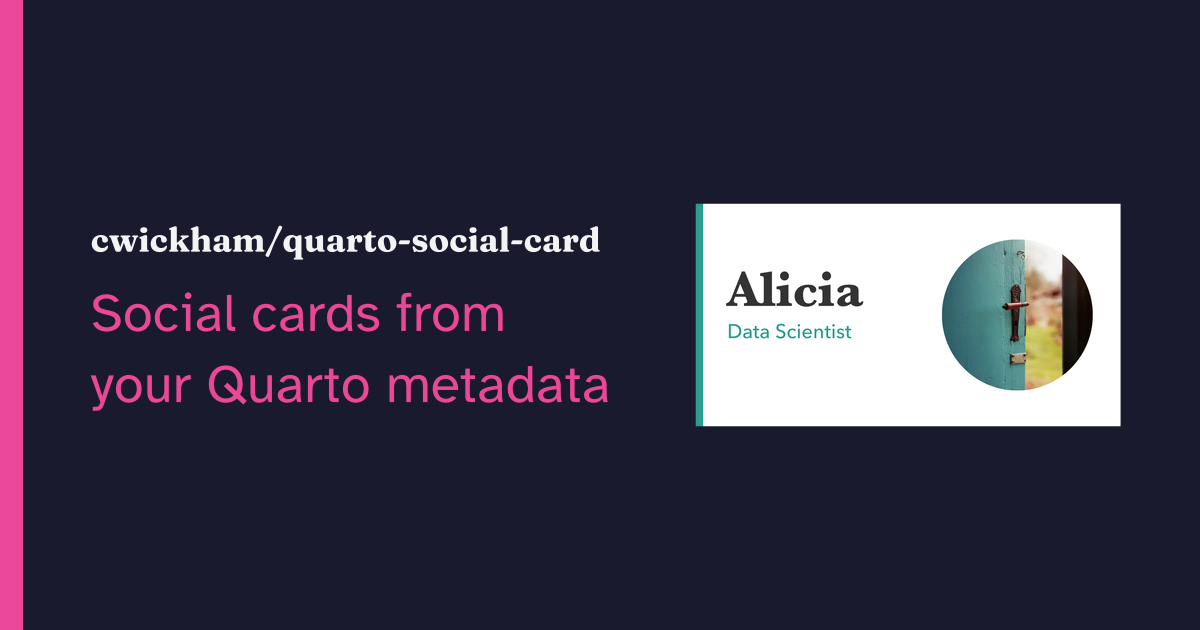
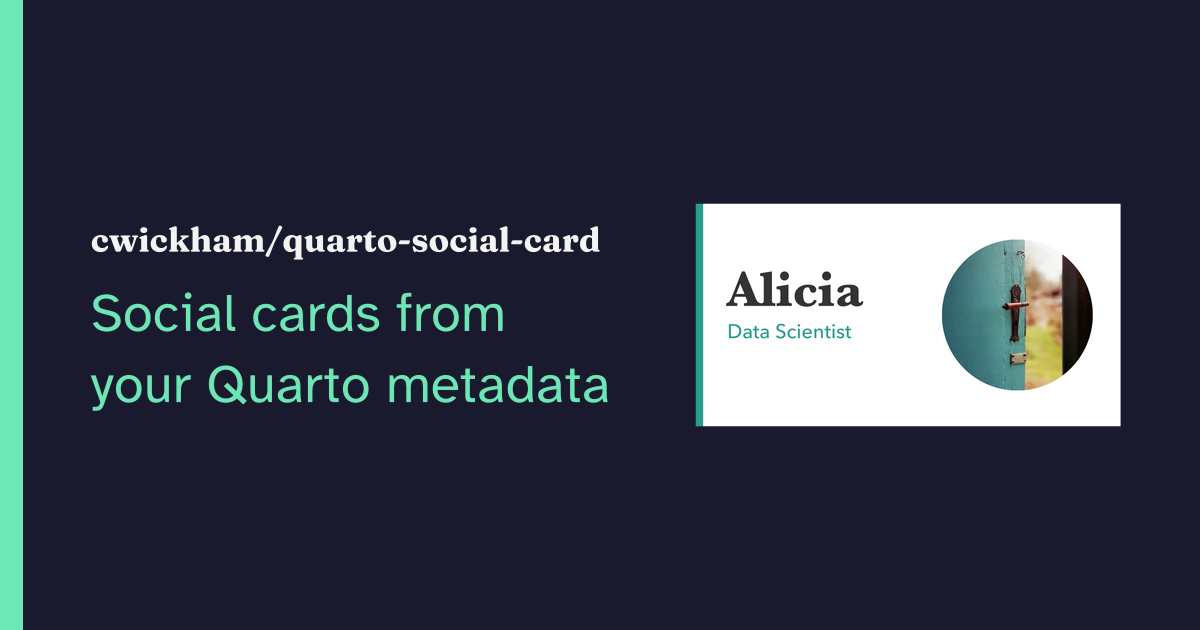
Switch brand primary to green: minty (dark) + forest (light)
- primary dark #6ee7b7 (mint, 11.19:1 on navy), light #166534 (forest,
  7.13:1 on white); both pass WCAG AA
- navbar contrast holds: navy on mint (dark) 11.19:1, white on forest
  (light) 7.13:1
- regenerate the dark mint self-card; update theme-dark.scss comment

Changed region(s): [[0.0617, 0.573, 0.5242, 0.6635], [0.0, 0.0, 0.0308, 1.0], [0.0617, 0.4524, 0.4317, 0.5429]]

diff --git a/theme-dark.scss b/theme-dark.scss
@@ -1,6 +1,6 @@
 /*-- scss:defaults --*/
 
-// In dark mode the navbar background is the brand's pink primary. Near-white
-// navbar text on it fails WCAG contrast (~3.5:1), so use the brand navy for the
-// navbar foreground (navy on pink is 4.84:1, AA).
+// In dark mode the navbar background is the brand primary; use the brand navy
+// for the navbar foreground so the title and links stay legible (navy on the
+// minty primary is ~11:1).
 $navbar-fg: #1a1a2e;
